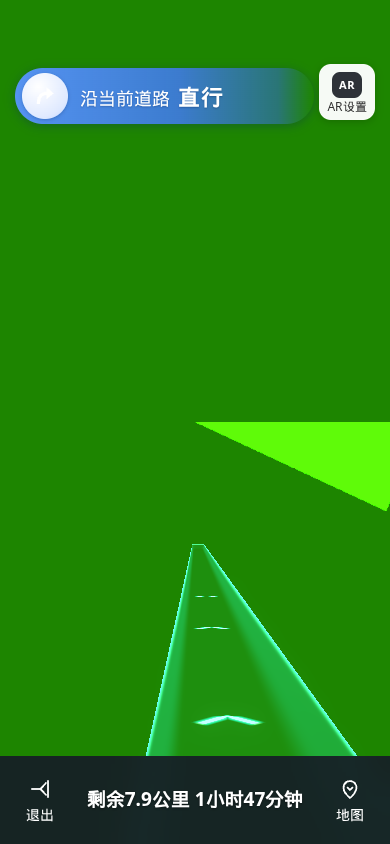
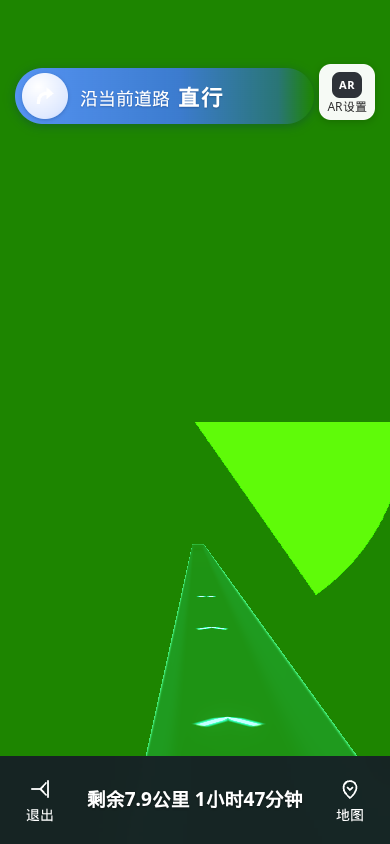
redo7: soften the channel walls and add a hospital corridor scene
Lower the side-wall and rim brightness so the trough reads as one soft body, and add a Pexels hospital hallway with its own horizon, a narrower walkway route, and a faint cyan floor tint.

diff --git a/demo/main.ts b/demo/main.ts
@@ -10,7 +10,8 @@ import GUI from 'lil-gui'
 const bgLayer = document.getElementById('bg') as HTMLElement
 const video = document.getElementById('cam') as HTMLVideoElement
 const modeMsg = document.getElementById('modeMsg') as HTMLElement
-const btnPhoto = document.getElementById('btnPhoto') as HTMLButtonElement
+const btnStreet = document.getElementById('btnStreet') as HTMLButtonElement
+const btnHospital = document.getElementById('btnHospital') as HTMLButtonElement
 const btnCam = document.getElementById('btnCam') as HTMLButtonElement
 
 // 默认真实街景照片（免版权，来源见 README）
@@ -50,7 +51,8 @@ async function enterCameraMode() {
   video.style.display = 'block'
   bgLayer.style.display = 'none'
   btnCam.classList.add('active')
-  btnPhoto.classList.remove('active')
+  btnStreet.classList.remove('active')
+  btnHospital.classList.remove('active')
   // iOS 需要在同一手势里请求权限；手机上开启后路线随手机俯仰/转动
   const ok = await DeviceOrientationRig.requestPermission()
   if (ok && rig.supported && !deviceRigStarted) {
@@ -65,13 +67,15 @@ function exitCameraMode() {
   video.srcObject = null
   video.style.display = 'none'
   bgLayer.style.display = 'block'
-  btnPhoto.classList.add('active')
+  btnStreet.classList.add('active')
+  btnHospital.classList.remove('active')
   btnCam.classList.remove('active')
   usingDevice = false
 }
 
 btnCam.addEventListener('click', enterCameraMode)
-btnPhoto.addEventListener('click', exitCameraMode)
+btnStreet.addEventListener('click', () => { exitCameraMode(); applyScene('street') })
+btnHospital.addEventListener('click', () => { exitCameraMode(); applyScene('hospital') })
 
 // ---------- 组件 ----------
 const shotQuery = new URLSearchParams(location.search)
@@ -131,6 +135,74 @@ if (campos) {
   if ([x, y, z].every((n) => !Number.isNaN(n))) camera.position.set(x, y, z)
 }
 applyLook()
+
+type SceneId = 'street' | 'hospital'
+const HOSPITAL = {
+  horizonY: 0.48,
+  vanishX: 0.50,
+  aspect: 1400 / 1867,
+  width: 0.85,
+  height: 0.48,
+  tint: 0.08,
+  straight: [
+    [0, 0],
+    [0, -8],
+    [0, -16],
+    [0, -24],
+  ] as Array<[number, number]>,
+  turn: [
+    [0, 0],
+    [0, -12],
+    [0, -20],
+    [0.3, -24],
+    [0.9, -27],
+    [1.45, -29.5],
+  ] as Array<[number, number]>,
+}
+function applyScene(id: SceneId) {
+  const bend = shotQuery.has('bend')
+  if (id === 'hospital') {
+    img.src = './assets/hospital.jpg'
+    navi.params.bandWidth = HOSPITAL.width
+    navi.params.railHeight = HOSPITAL.height
+    navi.theme.primary = '#40D8FF'
+    navi.theme.highlight = '#8AF4FF'
+    navi.setFloorTint(HOSPITAL.tint)
+    navi.setRoute(bend ? HOSPITAL.turn : HOSPITAL.straight)
+    navi.setBanner(bend
+      ? { distance: '前方20米', action: '右转 进入', road: '门诊二区' }
+      : { distance: '', action: '沿走廊', road: '直行' })
+    const calibrate = () => {
+      const aspect = img.naturalWidth && img.naturalHeight ? img.naturalWidth / img.naturalHeight : HOSPITAL.aspect
+      navi.setPhotoAspect(aspect)
+      const p = navi.setHorizonCalibration({ horizonY: HOSPITAL.horizonY, vanishX: HOSPITAL.vanishX, eyeHeight: 1.6 })
+      yawPitch.pitch = THREE.MathUtils.degToRad(p)
+      applyLook()
+    }
+    if (img.complete && img.naturalWidth) calibrate()
+    else img.onload = calibrate
+  } else {
+    img.src = './assets/street.jpg'
+    navi.params.bandWidth = 1.05
+    navi.params.railHeight = 0.5
+    navi.theme.primary = '#40D8FF'
+    navi.theme.highlight = '#7AEEFF'
+    navi.setFloorTint(0)
+    navi.setRoute(bend ? turnRoute : straightRoute)
+    navi.setBanner(bend
+      ? { distance: '20米后', action: '右转 进入', road: '无名路' }
+      : { distance: '', action: '沿当前道路', road: '直行' })
+    navi.setPhotoAspect(PHOTO.aspect)
+    const p = navi.setHorizonCalibration({ horizonY: PHOTO.horizonY, vanishX: PHOTO.vanishX, eyeHeight: 1.6 })
+    yawPitch.pitch = THREE.MathUtils.degToRad(p)
+    applyLook()
+  }
+  navi.applyParams()
+  btnStreet.classList.toggle('active', id === 'street')
+  btnHospital.classList.toggle('active', id === 'hospital')
+  btnCam.classList.remove('active')
+}
+if (shotQuery.get('scene') === 'hospital') applyScene('hospital')
 
 // 桌面拖拽模拟转头
 attachDragLook(document.getElementById('phone')!, (yaw, pitch) => {
@@ -264,14 +336,20 @@ frame()
 
 // ---------- 自动播放脚本 ----------
 const t0 = performance.now() - (parseFloat(new URLSearchParams(location.search).get('t') ?? '0') * 1000)
-const steps: Array<{ at: number; run: () => void }> = [
-  { at: 0, run: () => navi.setBanner({ distance: '', action: '沿当前道路', road: '直行' }) },
-  { at: 3500, run: () => navi.setBanner({ distance: '20米后', action: '右转 进入', road: '无名路' }) },
-  { at: 7500, run: () => navi.setBanner({ distance: '', action: '已进入', road: '无名路' }) },
-  { at: 11000, run: () => navi.setBanner({ distance: '30米后', action: '左转 进入', road: '永初路' }) },
-  { at: 15000, run: () => navi.setFooter({ enabled: true, distance: '剩余0公里', duration: '0分钟', arrival: '已到达目的地' }) },
-  { at: 15500, run: () => navi.setBanner({ distance: '', action: '', road: '目的地在您右侧' }) },
-]
+const steps: Array<{ at: number; run: () => void }> = shotQuery.get('scene') === 'hospital'
+  ? [
+      { at: 0, run: () => navi.setBanner(shotQuery.has('bend')
+        ? { distance: '前方20米', action: '右转 进入', road: '门诊二区' }
+        : { distance: '', action: '沿走廊', road: '直行' }) },
+    ]
+  : [
+      { at: 0, run: () => navi.setBanner({ distance: '', action: '沿当前道路', road: '直行' }) },
+      { at: 3500, run: () => navi.setBanner({ distance: '20米后', action: '右转 进入', road: '无名路' }) },
+      { at: 7500, run: () => navi.setBanner({ distance: '', action: '已进入', road: '无名路' }) },
+      { at: 11000, run: () => navi.setBanner({ distance: '30米后', action: '左转 进入', road: '永初路' }) },
+      { at: 15000, run: () => navi.setFooter({ enabled: true, distance: '剩余0公里', duration: '0分钟', arrival: '已到达目的地' }) },
+      { at: 15500, run: () => navi.setBanner({ distance: '', action: '', road: '目的地在您右侧' }) },
+    ]
 let stepIdx = 0
 function tick() {
   const t = performance.now() - t0

diff --git a/src/core.ts b/src/core.ts
@@ -23,7 +23,7 @@ import {
   chevronDimensions,
   type RouteGeometry,
 } from './route'
-import { createBandMaterial, createChevronMaterial } from './shader'
+import { createBandMaterial, createChevronMaterial, createFloorTintMaterial } from './shader'
 
 const css = String.raw
 
@@ -201,6 +201,9 @@ export class NaviArrowCore {
   private chevronMats: THREE.ShaderMaterial[] = []
   private bandMesh?: THREE.Mesh
   private bandMat?: THREE.ShaderMaterial
+  private tintMesh?: THREE.Mesh
+  private tintMat?: THREE.ShaderMaterial
+  private tintAmount = 0
   private railMesh: THREE.Mesh[] = []
   private railMat?: THREE.ShaderMaterial
   private lastBuilt = { bandWidth: 1.2, railHeight: 0.5 }
@@ -308,6 +311,15 @@ export class NaviArrowCore {
     const hi = (this.bloomPass as any).highPassUniforms
     if (hi?.smoothWidth) hi.smoothWidth.value = 0.08
     this.composer.addPass(this.bloomPass)
+    const bloomBlend = (this.bloomPass as any).blendMaterial as THREE.ShaderMaterial | undefined
+    if (bloomBlend) {
+      bloomBlend.blending = THREE.CustomBlending
+      bloomBlend.blendEquation = THREE.AddEquation
+      bloomBlend.blendSrc = THREE.OneFactor
+      bloomBlend.blendDst = THREE.OneFactor
+      bloomBlend.blendSrcAlpha = THREE.ZeroFactor
+      bloomBlend.blendDstAlpha = THREE.OneFactor
+    }
     // 预乘加法：rgb = 要加到照片上的光，alpha = 0 → 浏览器 result = rgb + photo，绝不压暗。
     const AdditiveCompositeShader = {
       uniforms: { tDiffuse: { value: null } },
@@ -316,10 +328,13 @@ export class NaviArrowCore {
         uniform sampler2D tDiffuse;
         varying vec2 vUv;
         void main() {
-          vec3 light = max(texture2D(tDiffuse, vUv).rgb, vec3(0.0));
+          vec4 c = texture2D(tDiffuse, vUv);
+          vec3 light = max(c.rgb, vec3(0.0));
           float lum = max(light.r, max(light.g, light.b));
           light *= smoothstep(0.0, 0.01, lum);
-          gl_FragColor = vec4(light, 0.0);
+          // alpha 只来自医院场景的淡青色衬底；街景为 0，仍然纯加法
+          float a = clamp(c.a, 0.0, 0.1);
+          gl_FragColor = vec4(light, a);
         }
       `,
     }
@@ -373,6 +388,10 @@ export class NaviArrowCore {
     const halfW = this.params.bandWidth / 2
 
     // 1. 地面带（加法发光、横向羽化）
+    if (this.tintMesh) {
+      this.scene.remove(this.tintMesh)
+      this.tintMesh = undefined
+    }
     if (this.bandMesh) {
       this.scene.remove(this.bandMesh)
       this.bandMesh.geometry.dispose()
@@ -387,7 +406,14 @@ export class NaviArrowCore {
       })
     }
     const wallH = Math.min(0.58, Math.max(0.42, this.params.railHeight || 0.5))
-    this.bandMesh = new THREE.Mesh(buildChannelGeometry(this.routeGeo, halfW, wallH), this.bandMat)
+    const channelGeo = buildChannelGeometry(this.routeGeo, halfW, wallH)
+    if (!this.tintMat) this.tintMat = createFloorTintMaterial(this.theme.primary, this.tintAmount)
+    this.tintMesh = new THREE.Mesh(channelGeo, this.tintMat)
+    this.tintMesh.frustumCulled = false
+    this.tintMesh.renderOrder = 0
+    this.tintMesh.visible = this.tintAmount > 0.001
+    this.scene.add(this.tintMesh)
+    this.bandMesh = new THREE.Mesh(channelGeo, this.bandMat)
     this.bandMesh.frustumCulled = false
     this.bandMesh.renderOrder = 1
     this.scene.add(this.bandMesh)
@@ -396,6 +422,16 @@ export class NaviArrowCore {
     if (this.opts.showChevrons !== false) this.rebuildChevrons()
 
     this.revealStart = this.clock.getElapsedTime()
+  }
+
+  /** 亮地板上的极淡青色衬底。0 表示关闭（街景）。 */
+  setFloorTint(amount: number) {
+    this.tintAmount = Math.max(0, amount)
+    if (this.tintMat) {
+      this.tintMat.uniforms.uAmount.value = this.tintAmount
+      this.tintMat.uniforms.uColor.value.set(this.theme.primary)
+    }
+    if (this.tintMesh) this.tintMesh.visible = this.tintAmount > 0.001
   }
 
   /** 应用 params 到材质（lil-gui 实时调参）——只改 uniform，不重建几何（宽高变化才重建） */
@@ -729,7 +765,9 @@ export class NaviArrowCore {
       const mats = Array.isArray(o.material) ? o.material : [o.material]
       mats.forEach((m: any) => m?.dispose?.())
     }
+    if (this.tintMesh) this.scene.remove(this.tintMesh)
     if (this.bandMesh) disposeGeoMat(this.bandMesh)
+    this.tintMat?.dispose()
     this.railMesh.forEach(disposeGeoMat)
     if (this.groundMesh) disposeGeoMat(this.groundMesh)
     if (this.groundGrid) disposeGeoMat(this.groundGrid)

diff --git a/src/shader.ts b/src/shader.ts
@@ -58,18 +58,19 @@ const frag = /* glsl */ `
     vec3 V = normalize(cameraPosition - vWorldPos);
     float fres = pow(1.0 - clamp(abs(dot(N, V)), 0.0, 1.0), 1.45);
     // 槽底很淡，墙的内侧面更亮，通道才像一条槽
-    float floorA = 0.055 * fade * uOpacity * (0.75 + 0.25 * fres);
-    float wallA = 0.20 * fade * uOpacity * (0.5 + 0.85 * fres);
-    float body = mix(floorA, wallA, smoothstep(0.08, 0.72, vWall));
+    float floorA = 0.08 * fade * uOpacity * (0.8 + 0.2 * fres);
+    // 墙比上一版大约暗 40%，和槽底连成一块柔光，而不是两根发亮的轨
+    float wallA = 0.12 * fade * uOpacity * (0.7 + 0.4 * fres);
+    float body = mix(floorA, wallA, smoothstep(0.12, 0.8, vWall));
     vec3 col = mix(uColor, uFarColor, clamp(vUv.x * 0.35, 0.0, 1.0));
 
     float fw = max(fwidth(vRim), 1e-4);
     float px = (1.0 - vRim) / fw;
     float farT = smoothstep(4.0, 40.0, vDist);
-    float corePx = mix(1.5, 0.85, farT);
+    float corePx = mix(0.85, 0.4, farT);
     float line = exp(-0.5 * (px / corePx) * (px / corePx));
-    line *= smoothstep(0.45, 0.92, vRim);
-    float lineI = line * 0.7 * fade * uOpacity;
+    line *= smoothstep(0.62, 0.98, vRim);
+    float lineI = line * 0.36 * fade * uOpacity;
     vec3 lineCol = vec3(0.40, 0.94, 1.0);
 
     float a = body + lineI;
@@ -146,7 +147,49 @@ function baseMaterial(uniforms: NaviUniforms): THREE.ShaderMaterial {
     depthWrite: false,
     depthTest: false,
     side: THREE.DoubleSide,
-    blending: THREE.AdditiveBlending,
+    blending: THREE.CustomBlending,
+    blendEquation: THREE.AddEquation,
+    blendSrc: THREE.SrcAlphaFactor,
+    blendDst: THREE.OneFactor,
+    blendSrcAlpha: THREE.ZeroFactor,
+    blendDstAlpha: THREE.OneFactor,
+    toneMapped: false,
+  })
+}
+
+/** 极淡的青色衬底。只写入少量 alpha，让亮地板上也看得出青色，不压暗。 */
+export function createFloorTintMaterial(color = '#40D8FF', amount = 0): THREE.ShaderMaterial {
+  return new THREE.ShaderMaterial({
+    uniforms: {
+      uColor: { value: new THREE.Color(color) },
+      uAmount: { value: amount },
+    },
+    vertexShader: /* glsl */ `
+      varying vec2 vUv;
+      void main() {
+        vUv = uv;
+        gl_Position = projectionMatrix * modelViewMatrix * vec4(position, 1.0);
+      }
+    `,
+    fragmentShader: /* glsl */ `
+      uniform vec3 uColor;
+      uniform float uAmount;
+      varying vec2 vUv;
+      void main() {
+        if (uAmount < 0.001) discard;
+        gl_FragColor = vec4(uColor * uAmount, uAmount);
+      }
+    `,
+    transparent: true,
+    depthWrite: false,
+    depthTest: false,
+    side: THREE.DoubleSide,
+    blending: THREE.CustomBlending,
+    blendEquation: THREE.AddEquation,
+    blendSrc: THREE.OneFactor,
+    blendDst: THREE.OneFactor,
+    blendSrcAlpha: THREE.OneFactor,
+    blendDstAlpha: THREE.OneFactor,
     toneMapped: false,
   })
 }
@@ -206,7 +249,12 @@ export function createChevronMaterial(color: string, opacity = 1.05, size?: { wi
     transparent: true,
     depthWrite: false,
     depthTest: false,
-    blending: THREE.AdditiveBlending,
+    blending: THREE.CustomBlending,
+    blendEquation: THREE.AddEquation,
+    blendSrc: THREE.SrcAlphaFactor,
+    blendDst: THREE.OneFactor,
+    blendSrcAlpha: THREE.ZeroFactor,
+    blendDstAlpha: THREE.OneFactor,
     toneMapped: false,
     side: THREE.DoubleSide,
   })

diff --git a/demo/index.html b/demo/index.html
@@ -58,7 +58,8 @@
     </div>
   </div>
   <div id="modeBar">
-    <button id="btnPhoto" class="active">街景照片</button>
+    <button id="btnStreet" class="active">街景</button>
+    <button id="btnHospital">医院室内</button>
     <button id="btnCam">相机实景</button>
   </div>
   <div id="modeMsg"></div>

diff --git a/reference/README.md b/reference/README.md
@@ -1,0 +1,13 @@
+# 参考图来源
+
+## 医院室内走廊
+
+- 文件：`demo/assets/hospital.jpg`
+- 页面：https://www.pexels.com/photo/modern-hospital-corridor-with-empty-chairs-33812023/
+- 作者：Jinshu Pulpatta（Pexels）
+- 许可：[Pexels License](https://www.pexels.com/license/)（可免费用于商业与个人用途，无需署名）
+- 内容：步行高度拍摄的医院走廊，亮色抛光地砖，左侧诊室门与标识，右侧座椅，远处右侧有开口。
+
+## 街景
+
+街景照片 `demo/assets/street.jpg` 的来源写在项目根目录 `README.md`。
